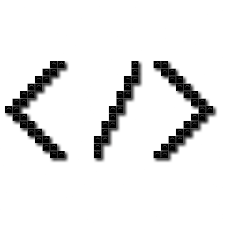
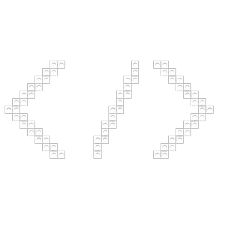
taskbar complete

Changed region(s): [[0.4044, 0.2489, 0.9644, 0.7467], [0.0, 0.2489, 0.3111, 0.7467]]

diff --git a/portfolio/src/Taskbar.css b/portfolio/src/Taskbar.css
@@ -3,7 +3,7 @@
 
 
 .top-bar {
-    background-color: #404656 ;
+    background-color: #0e0529 ;
     color: white;
     display: flex;
     justify-content:space-evenly;
@@ -14,22 +14,41 @@
     z-index: 100;
     border-radius: 30px;
     box-shadow: 0 4px 10px rgba(221, 125, 221, 0.4); 
-    border: 3.5px dashed rgb(180, 177, 180); /* Dashed border */
+    border: 4px dotted rgb(180, 177, 180); /* Dashed border */
     position: absolute;
     margin-top: 20px;
     left: 50%;
     transform: translate(-50%, -50%);
-    overflow: hidden; 
+    
+    animation: blink-border 1.5s infinite; 
   }
  
  
+  @keyframes blink-border {
+    0% {
+        border-color: rgb(180, 177, 180); /* Initial color */
+    }
+    25% {
+        border-color: transparent; /* Change to white at 50% */
+    }
+    50% {
+        border-color: rgb(180, 177, 180); /* Return to initial color */
+    }
+    75% {
+      border-color: transparent; /* Change to white at 50% */
+  }
+  100% {
+      border-color: rgb(180, 177, 180); /* Return to initial color */
+  }
   
+
+}
 
   
   .button {
     background-color:#966209 ;
     color: white;
-    border:2.5px solid white;
+    border:2.5px dashed white;
     padding: 10px 20px;
     margin-left: 20px;
     cursor: pointer;
@@ -52,13 +71,13 @@
     display: inline-block;
     width: 40px;  /* Set the desired width */
     height: 40px; /* Set the desired height */
-    transition: transform 0.3s, box-shadow 0.3s; /* Smooth transition for hover effects */
+    transition: transform 0.3s, box-shadow 0.2s; /* Smooth transition for hover effects */
     border-radius: 50%; /* Make the container circular */
   }
 
   .social-media-links a:hover {
     transform: scale(1.2); /* Increase the size by 20% */
-    box-shadow: 0 0 15px 5px white; 
+   
 }
   
   .social-media-links img {
@@ -69,3 +88,25 @@
 
   }
   
+
+  .social-media-links a::after {
+    content: attr(title); /* Use the title attribute as the label text */
+    position: absolute;
+    top: 100%;
+    left: 50%;
+    transform: translateX(-50%);
+    background-color: #6ec0db;
+    color: rgb(4, 37, 88);
+    padding: 8px 10px;
+    margin-top: 0.5rem;
+    border-radius: 5px;
+    font-size: 10px;
+    opacity: 0;
+    visibility: hidden;
+    transition: opacity 0.3s;
+  }
+  
+  .social-media-links a:hover::after {
+    opacity: 1;
+    visibility: visible;
+  }

diff --git a/portfolio/src/Taskbar.jsx b/portfolio/src/Taskbar.jsx
@@ -36,30 +36,30 @@ function Taskbar() {
 
       <div className="social-media-links">
         {/* LinkedIn */}
-        <a href="https://www.linkedin.com/in/aditiiprasad" target="_blank" rel="noopener noreferrer">
+        <a href="https://www.linkedin.com/in/aditiiprasad" target="_blank" rel="noopener noreferrer" title="LinkedIn">
         <img src={linkedinicon} alt="" />
         </a>
 
         {/* GitHub */}
-        <a href="https://github.com/aditiiprasad" target="_blank" rel="noopener noreferrer">
+        <a href="https://github.com/aditiiprasad" target="_blank" rel="noopener noreferrer" title="Github">
         <img src={githubicon} alt="" />
         </a>
 
         {/* LeetCode */}
 
-        <a href="https://leetcode.com/aditiiprasad" target="_blank" rel="noopener noreferrer">
+        <a href="https://leetcode.com/aditiiprasad" target="_blank" rel="noopener noreferrer" title="leetcode">
         <img src={leetcode} alt="" />
         </a>
 
         {/* Email */}
         
-        <a href="mailto:aditi03prasad@gmail.com">
+        <a href="mailto:aditi03prasad@gmail.com" title="Email"> 
           <img src={mailicon} alt="" />
         </a>
 
         {/* instagram */}
         
-        <a href="https://instagram.com/aditiiprasad">
+        <a href="https://instagram.com/aditiiprasad" title="Instagram">
           <img src={instaicon} alt="" />
         </a>
 

diff --git a/portfolio/src/App.css b/portfolio/src/App.css
@@ -5,10 +5,16 @@ body {
   padding: 0;
   box-sizing: border-box;
    
-
+ 
 }
+
+
 *{
   font-family: 'Press Start 2P', cursive;
+  
+  cursor: url('./assets/curser.png') 16 16, auto;
+
+
 }
 
 
